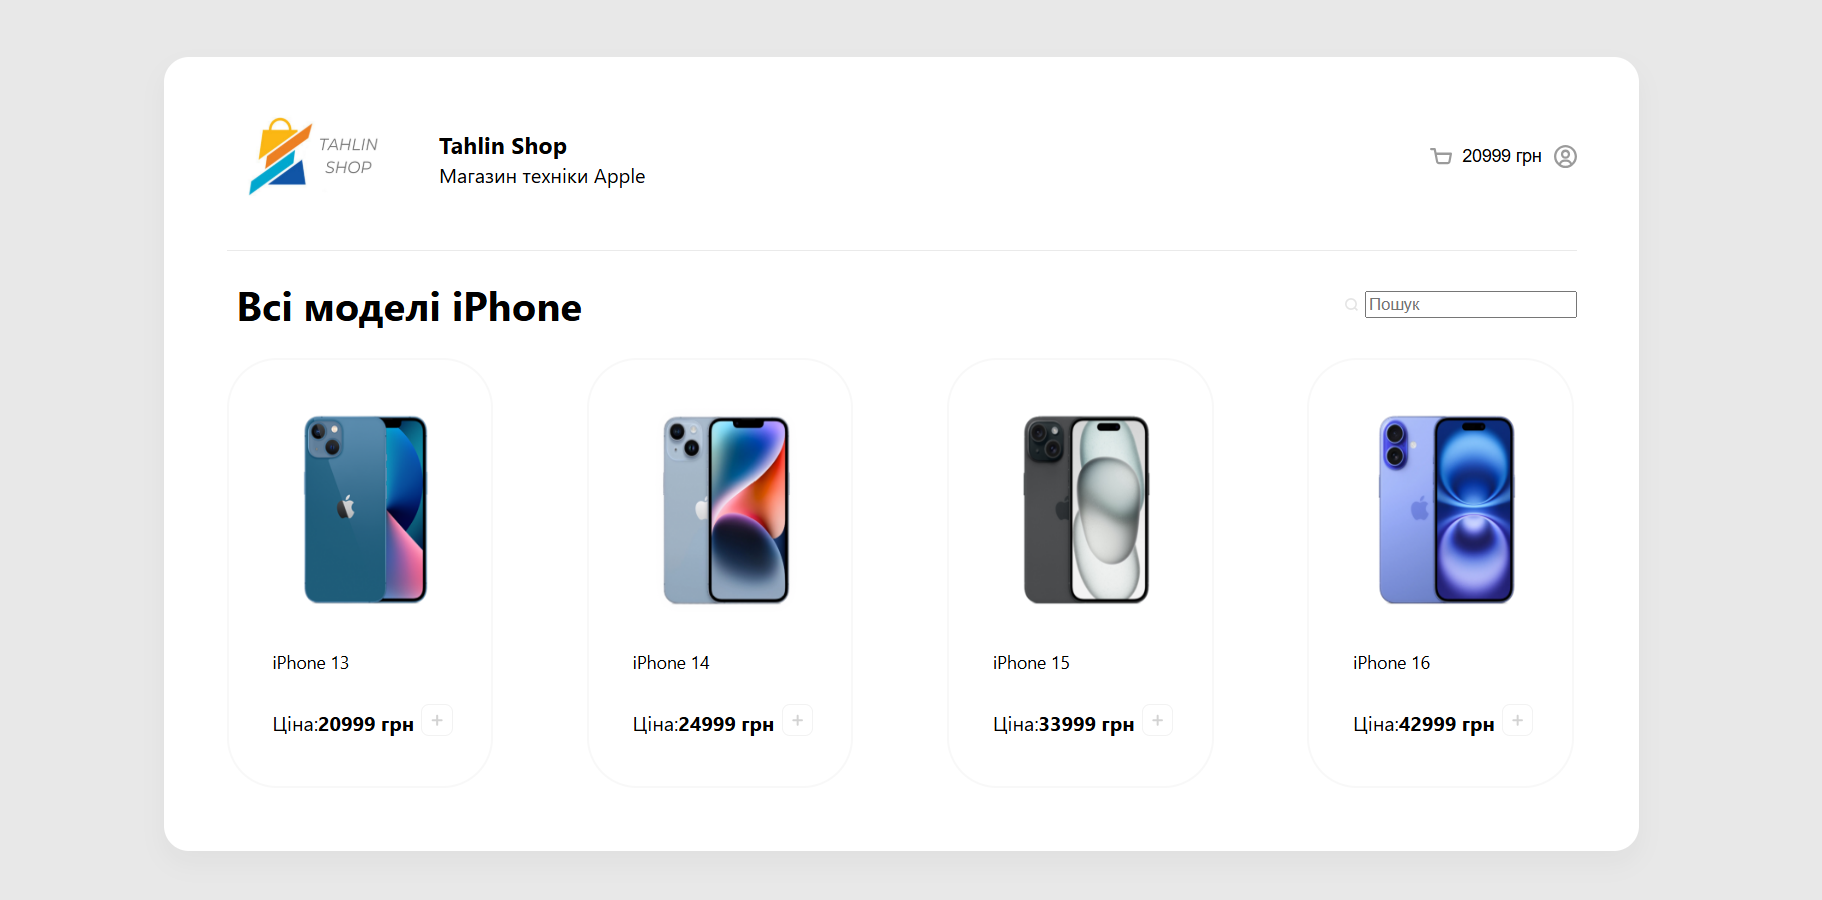
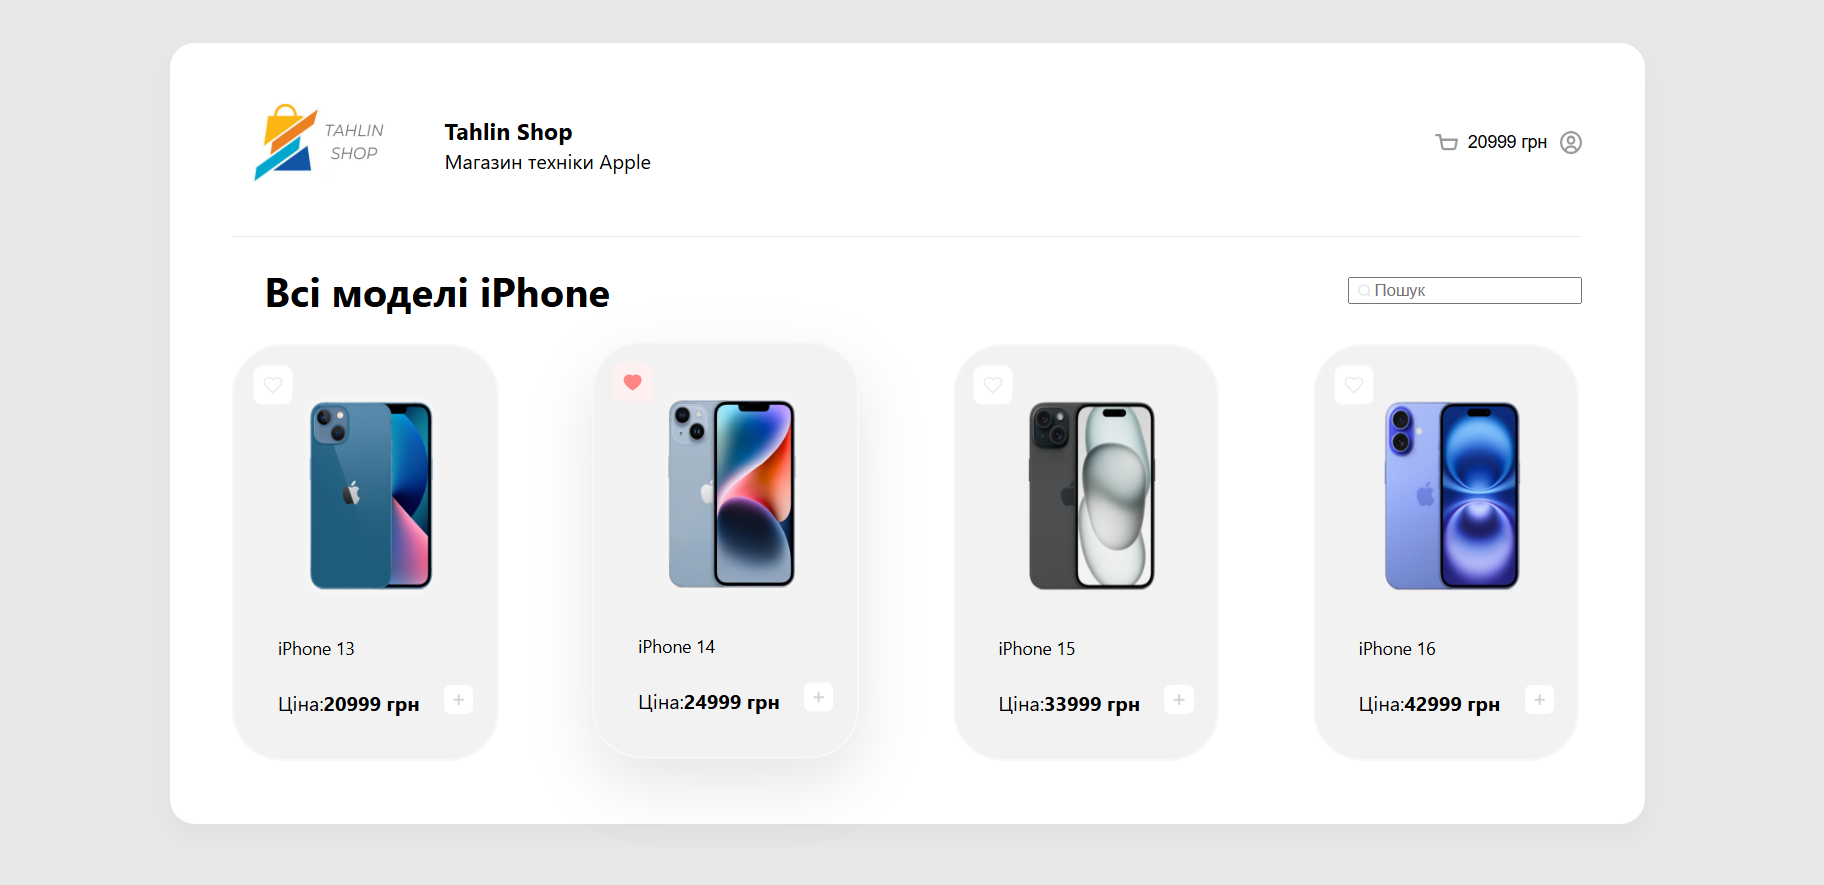
v1.1.0 Added product favorite functionality, hover animation and shadow, improved styling

diff --git a/src/App.js b/src/App.js
@@ -32,50 +32,62 @@ function App() {
 
               <div className="sneakers">
                   <div className="card">
+                      <div className="favorite">
+                          <img src="/img/react-unliked.svg" alt="Unliked"/>
+                      </div>
                       <img width="150" height="170" src="/img/sneakers/1.png" alt="Product"/>
                       <h5>iPhone 13</h5>
                       <div className="price">
                           <span>Ціна:</span>
                           <b>20999 грн</b>
-                          <button className="button">
+                          <div className="button">
                               <img src="/img/icon.svg" alt="Icon" width="25" height="25"/>
-                          </button>
+                          </div>
                       </div>
                   </div>
 
                   <div className="card">
+                      <div className="favorite">
+                          <img src="/img/react-liked.svg" alt="Unliked"/>
+                      </div>
                       <img width="150" height="170" src="/img/sneakers/2.png" alt="Product"/>
                       <h5>iPhone 14</h5>
                       <div className="price">
                           <span>Ціна:</span>
                           <b>24999 грн</b>
-                          <button className="button">
+                          <div className="button">
                               <img src="/img/icon.svg" alt="Icon" width="25" height="25"/>
-                          </button>
+                          </div>
                       </div>
                   </div>
 
                   <div className="card">
+                      <div className="favorite">
+                          <img src="/img/react-unliked.svg" alt="Unliked"/>
+                      </div>
                       <img width="150" height="170" src="/img/sneakers/3.png" alt="Product"/>
                       <h5>iPhone 15</h5>
                       <div className="price">
                           <span>Ціна:</span>
                           <b>33999 грн</b>
-                          <button className="button">
+                          <div className="button">
                               <img src="/img/icon.svg" alt="Icon" width="25" height="25"/>
-                          </button>
+                          </div>
                       </div>
                   </div>
 
                   <div className="card">
+                      <div className="favorite">
+                          <img src="/img/react-unliked.svg" alt="Unliked"/>
+                      </div>
                       <img width="150" height="170" src="/img/sneakers/4.png" alt="Product"/>
                       <h5>iPhone 16</h5>
                       <div className="price">
                           <span>Ціна:</span>
                           <b>42999 грн</b>
-                          <button className="button">
+                          <div className="button">
                               <img src="/img/icon.svg" alt="Icon" width="25" height="25"/>
-                          </button>
+                          </div>
                       </div>
                   </div>
               </div>

diff --git a/src/index.css b/src/index.css
@@ -59,15 +59,20 @@ header {
   width: 140px;
   border-radius: 40px;
   margin-right: 75px;
+  background-color: #f2f2f2;
+  transition: box-shadow 0.2s ease-in-out;
+  position: relative;
+}
+
+.card:hover {
+  box-shadow: 0px 20px 50px rgba(0, 0, 0, 0.1); /* Тінь при наведенні на картку */
+  transform: translateY(-2px);
 }
 
 .button {
-  background-color: #ffffff;
-  border: 0px solid #f2f2f2;
-  box-sizing: border-box;
-  height: 32px;
-  width: 3px;
+  position: absolute;
   cursor: pointer;
+  right: 18px; /* Відстань від правого краю контейнера кнопки "Додати в корзику" */
 }
 
 h5 {
@@ -77,6 +82,7 @@ h5 {
 
 .sneakers {
   display: flex;
+  position: relative;
 }
 
 .search-block {
@@ -84,13 +90,24 @@ h5 {
    display: flex;
    align-items: center;
    justify-content: right;
-   gap: 610px; /* Відступ між "Всі моделі iPhone" та "Пошук" */
+   gap: 590px; /* Відступ між "Всі моделі iPhone" та "Пошук" */
 }
 
 .search {
   display: flex;
   align-items: center;
-  gap: 5px;
+  position: relative;
+}
+
+.search img {
+  position: absolute;
+  left: 8px; /* Відстань значка пошуку в строці пошуку */
+  top: 50%;
+  transform: translateY(-50%);
+}
+
+.search input {
+  padding-left: 20px; /* Збільшення відступу для врахування іконки */
 }
 
 .content {
@@ -100,3 +117,12 @@ h5 {
   display: flex;
   align-items: center;
 }
+
+.favorite {
+  position: absolute;
+  cursor: pointer;
+  top: 15px;
+  left: 15px;
+}
+
+

diff --git a/README.md b/README.md
@@ -3,7 +3,7 @@
 ## Description  
 **Tahlin Shop** is an online store interface for Apple devices, built with React. This project provides a user-friendly shopping experience with essential features like a cart, search functionality, and user profile management.  
 
-## Features (v1.0.0)  
+## Features (v1.1.0)  
 ✅ Storefront interface for Apple products  
 ✅ Shopping cart functionality  
 ✅ Search bar for filtering products  
